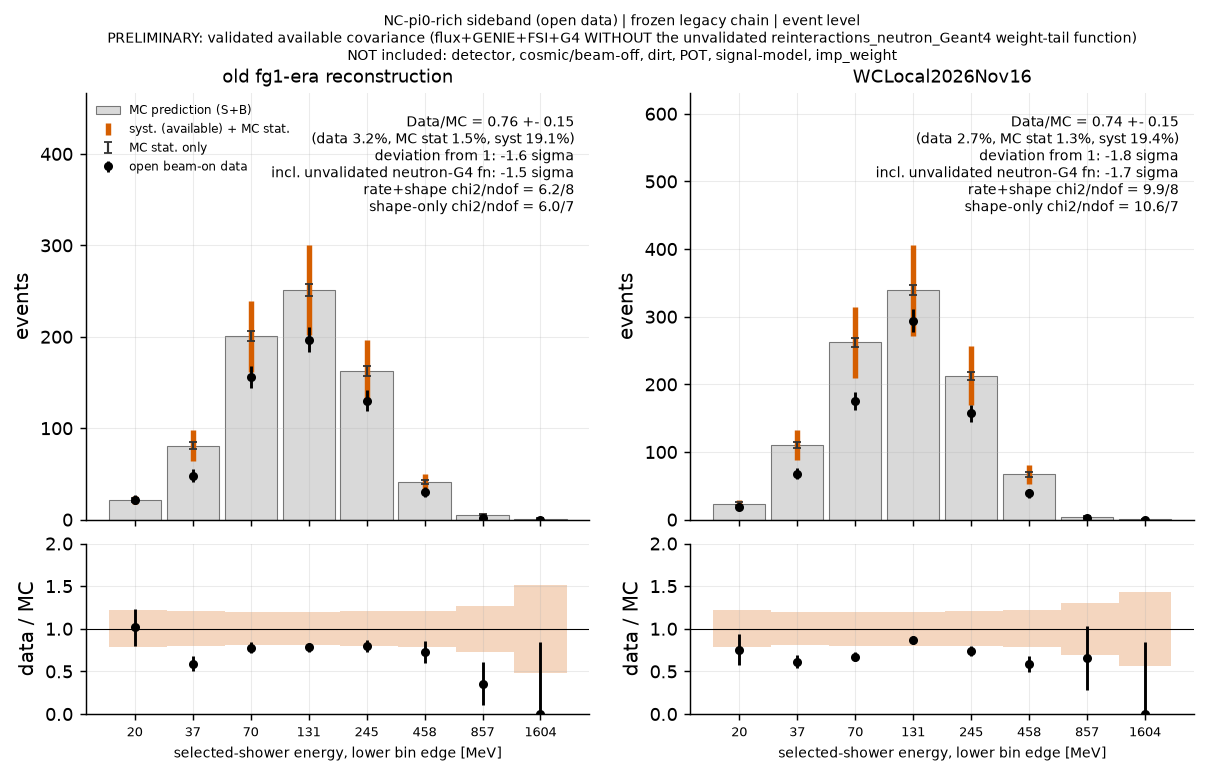
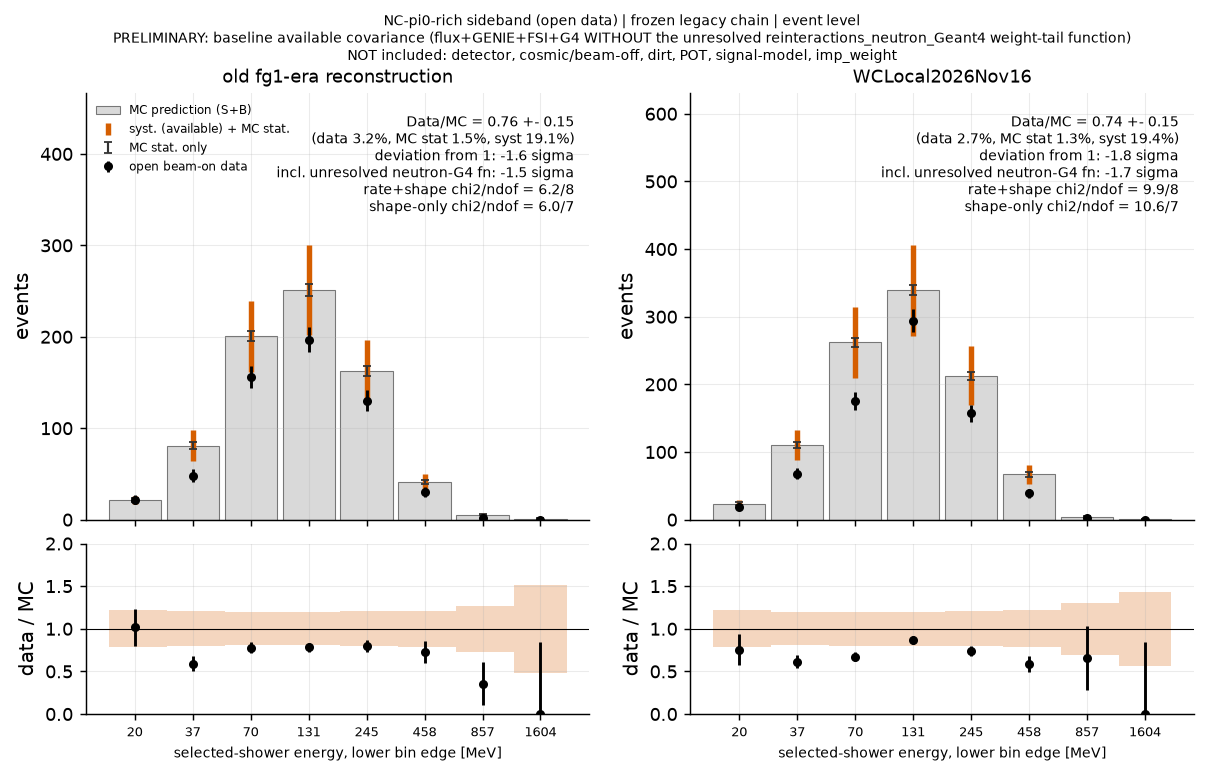
docs: wording-only cleanup - 'validated covariance' -> 'baseline available covariance (excluding unresolved reinteractions_neutron_Geant4 tail)'
Excluding the neutron-G4 function is an analysis diagnostic choice, not an approved SBN prescription. No numerical result changed (figures F/K regenerated for captions only).

Changed region(s): [[0.092, 0.031, 0.9511, 0.062], [0.7363, 0.2171, 0.8284, 0.2481], [0.2148, 0.2171, 0.3068, 0.2481]]

diff --git a/scripts/ncdelta_syst_regions.py b/scripts/ncdelta_syst_regions.py
@@ -175,7 +175,7 @@ def analyze(regions, tag_name, exclude=()):
 
 
 def figures(regions, mats, df, tag_name, sfx="", other=None):
-    """sfx '' = validated covariance (WITHOUT reinteractions_neutron_Geant4; main figures); '_incl_nG4' = all in-band functions (backup)."""
+    """sfx '' = baseline available covariance (WITHOUT reinteractions_neutron_Geant4; main figures); '_incl_nG4' = all in-band functions (backup)."""
     import matplotlib.pyplot as plt
     from sbnd_single_photon import plotstyle as PS; PS.apply_style(); PLT_ = REPO / "plots" / "ncdelta_purity_datamc"
     ttl = {"old_fg1": "old fg1-era reconstruction", "nov16": "WCLocal2026Nov16"}
@@ -188,13 +188,13 @@ def figures(regions, mats, df, tag_name, sfx="", other=None):
             a0.bar(x, P, 0.9, color="#D9D9D9", edgecolor="#777777", lw=0.6, label="MC prediction (S+B)"); a0.errorbar(x, P, yerr=tot, fmt="none", ecolor="#D55E00", lw=3, label="syst. (available) + MC stat."); a0.errorbar(x, P, yerr=mc, fmt="none", ecolor="#333333", lw=1.2, capsize=2, label="MC stat. only")
             a0.errorbar(x, Dv, yerr=np.sqrt(np.maximum(Dv, 1)), fmt="ko", ms=4, label="open beam-on data"); a0.set_ylim(0, 1.55 * float((P + tot).max())); a0.set_ylabel("events"); a0.set_xticks(x); a0.set_xticklabels([]); a0.set_title(ttl[prod], fontsize=10)
             ra = df[(df.production == prod) & (df.region == r) & (df.test.str.startswith("rate_only"))].iloc[0]; rs = df[(df.production == prod) & (df.region == r) & (df.test.str.startswith("rate+shape (energy"))].iloc[0]; sh = df[(df.production == prod) & (df.region == r) & (df.test.str.startswith("shape-only (energy"))].iloc[0]
-            oth = "" if other is None else f"\nincl. unvalidated neutron-G4 fn: {(other[(other.production == prod) & (other.region == r) & other.test.str.startswith('rate_only')].iloc[0].n_sigma_from_unity_total):+.1f} sigma"
+            oth = "" if other is None else f"\nincl. unresolved neutron-G4 fn: {(other[(other.production == prod) & (other.region == r) & other.test.str.startswith('rate_only')].iloc[0].n_sigma_from_unity_total):+.1f} sigma"
             a0.text(0.97, 0.95, f"Data/MC = {ra.ratio:.2f} +- {ra.rel_total * ra.ratio:.2f}\n(data {100 * ra.rel_data_stat:.1f}%, MC stat {100 * ra.rel_mc_stat:.1f}%, syst {100 * ra.rel_syst:.1f}%)\ndeviation from 1: {ra.n_sigma_from_unity_total:+.1f} sigma{oth}\nrate+shape chi2/ndof = {rs.chi2:.1f}/{rs.ndof:.0f}\nshape-only chi2/ndof = {sh.chi2:.1f}/{sh.ndof:.0f}", transform=a0.transAxes, ha="right", va="top", fontsize=7.5)
             if ci == 0:
                 a0.legend(fontsize=6.5, loc="upper left")
             rr = Dv / P; a1.fill_between(np.r_[x - 0.45, x[-1] + 0.45], 1 - np.r_[tot / P, (tot / P)[-1]], 1 + np.r_[tot / P, (tot / P)[-1]], color="#D55E00", alpha=0.25, step="post", lw=0)
             a1.errorbar(x, rr, yerr=np.sqrt(np.maximum(Dv, 1)) / P, fmt="ko", ms=4); a1.axhline(1, color="k", lw=0.6); a1.set_ylim(0, 2); a1.set_ylabel("data / MC"); a1.set_xticks(x); a1.set_xticklabels(lab, fontsize=7); a1.set_xlabel("selected-shower energy, lower bin edge [MeV]", fontsize=8)
-        fig.suptitle("NC-pi0-rich sideband (open data) | frozen legacy chain | event level\nPRELIMINARY: " + ("validated available covariance (flux+GENIE+FSI+G4 WITHOUT the unvalidated reinteractions_neutron_Geant4 weight-tail function)" if sfx == "" else "all in-band functions INCLUDING the unvalidated reinteractions_neutron_Geant4 weight-tail function") + "\nNOT included: detector, cosmic/beam-off, dirt, POT, signal-model, imp_weight", fontsize=8)
+        fig.suptitle("NC-pi0-rich sideband (open data) | frozen legacy chain | event level\nPRELIMINARY: " + ("baseline available covariance (flux+GENIE+FSI+G4 WITHOUT the unresolved reinteractions_neutron_Geant4 weight-tail function)" if sfx == "" else "all in-band functions INCLUDING the unresolved reinteractions_neutron_Geant4 weight-tail function") + "\nNOT included: detector, cosmic/beam-off, dirt, POT, signal-model, imp_weight", fontsize=8)
         fig.savefig(PLT_ / f"F_ncpi0_sideband_datamc_with_systematics{sfx}.png", dpi=130, bbox_inches="tight"); plt.close(fig); print("wrote F_ncpi0_sideband_datamc_with_systematics" + sfx + ".png")
     d = df[df.test.str.startswith("rate_only")]; fig, ax = plt.subplots(figsize=(8, 3.8)); xs = np.arange(len(regions))
     for k, prod in enumerate(PRODUCTIONS):

diff --git a/scripts/ncdelta_control_region_summary.py b/scripts/ncdelta_control_region_summary.py
@@ -3,7 +3,7 @@
 
     source env/setup_eaf.sh && python scripts/ncdelta_control_region_summary.py
 
-'validated' = flux + GENIE xsec + FSI + beamline-G4 functions WITHOUT reinteractions_neutron_Geant4 (unvalidated weight-tail function, see the event-level audit); 'incl_nG4' = with it. Neither is a final systematic uncertainty.
+baseline = flux + GENIE xsec + FSI + beamline-G4 functions WITHOUT reinteractions_neutron_Geant4 (unresolved neutron-G4 tail function, see the event-level audit); 'incl_nG4' = with it. Neither is a final systematic uncertainty.
 NOT included in either: detector / proton reconstruction, cosmic-only (beam-off) MC, dirt, POT, imp_weight, NC-Delta signal-model dials, unresolved-owner events.
 """
 import pickle
@@ -28,9 +28,9 @@ def main():
             weak = []; 
             if a.n_data < 100: weak.append("n_data<100")
             if min(n.data_0p, n.data_Np) < 50: weak.append("Np or 0p bin <50 events")
-            rows.append(dict(region=r, production=p, n_data=int(a.n_data), mc_prediction=a.prediction, data_over_mc=a.ratio, rel_data_stat=a.rel_data_stat, rel_mc_stat=a.rel_mc_stat, rel_syst_validated=x.rel_syst, rel_syst_incl_nG4=a.rel_syst,
-                             n_sigma_from_1_validated=x.n_sigma_from_unity_total, n_sigma_from_1_incl_nG4=a.n_sigma_from_unity_total, np_over_0p_double_ratio=n.double_ratio, double_ratio_rel_unc_stat_mc=n.rel_stat_mc, double_ratio_rel_unc_validated=n.rel_total_available,
-                             double_ratio_rel_unc_incl_nG4=float(np.hypot(n.rel_stat_mc, n.rel_syst_incl_neutron_g4)), double_ratio_n_sigma_validated=n.n_sigma_with_available_syst, double_ratio_n_sigma_incl_nG4=n.n_sigma_incl_neutron_g4,
+            rows.append(dict(region=r, production=p, n_data=int(a.n_data), mc_prediction=a.prediction, data_over_mc=a.ratio, rel_data_stat=a.rel_data_stat, rel_mc_stat=a.rel_mc_stat, rel_syst_baseline=x.rel_syst, rel_syst_incl_nG4=a.rel_syst,
+                             n_sigma_from_1_baseline=x.n_sigma_from_unity_total, n_sigma_from_1_incl_nG4=a.n_sigma_from_unity_total, np_over_0p_double_ratio=n.double_ratio, double_ratio_rel_unc_stat_mc=n.rel_stat_mc, double_ratio_rel_unc_baseline=n.rel_total_available,
+                             double_ratio_rel_unc_incl_nG4=float(np.hypot(n.rel_stat_mc, n.rel_syst_incl_neutron_g4)), double_ratio_n_sigma_baseline=n.n_sigma_with_available_syst, double_ratio_n_sigma_incl_nG4=n.n_sigma_incl_neutron_g4,
                              energy_rate_shape_chi2=cr[0], energy_rate_shape_ndof=cr[1], energy_rate_shape_p=cr[2], energy_rate_shape_chi2_incl_nG4=cn[0], energy_rate_shape_p_incl_nG4=cn[2],
                              energy_shape_only_chi2=sr[0], energy_shape_only_ndof=sr[1], energy_shape_only_p=sr[2], energy_shape_only_chi2_incl_nG4=sn[0], energy_shape_only_p_incl_nG4=sn[2],
                              dominant_mc_truth=f"{top[0][0]} {100 * top[0][1] / tot:.0f}%; {top[1][0]} {100 * top[1][1] / tot:.0f}%", stat_weak=";".join(weak)))

diff --git a/tests/test_ncdelta_syst_weights.py b/tests/test_ncdelta_syst_weights.py
@@ -171,7 +171,7 @@ def test_neutron_g4_event_audit_tables_and_policy_are_consistent():
     lead = top[(top.region == "preselection") & (top.quantity == "total_yield") & (top["rank"] == 1)]
     assert set(lead.production) == {"old_fg1", "nov16"} and (lead.run == 8011).all() and (lead.subrun == 91).all() and (lead.evt == 3).all()   # same physical MC event in both productions
     assert (lead.max_weight > 1e5).all() and (top.share_of_variance.between(-1.0, 1.1)).all()
-    # the validated total excludes ONLY the neutron function; no weight was clipped anywhere
+    # the baseline total excludes ONLY the neutron function; no weight was clipped anywhere
     band = pd.read_csv(TABD / "syst_band_by_component.csv"); a = band[(band.view == "all") & (band.component.isin(["TOTAL_available", "TOTAL_validated_excl_nG4", "unvalidated_nG4"]))]
     for prod in ("old_fg1", "nov16"):
         x = a[a.production == prod].set_index("component").sigma_purity_coherent_per_universe
@@ -192,7 +192,7 @@ def test_control_region_summary_matches_the_committed_region_tables_and_the_doub
     for r in d.itertuples():
         a = A[(A.production == r.production) & (A.region == r.region) & A.test.str.startswith("rate_only")].iloc[0]; x = X[(X.production == r.production) & (X.region == r.region) & X.test.str.startswith("rate_only")].iloc[0]
         n = N[(N.production == r.production) & (N.region == r.region)].iloc[0]
-        assert abs(r.data_over_mc - a.ratio) < 1e-9 and r.n_data == a.n_data and abs(r.rel_syst_validated - x.rel_syst) < 1e-9 and abs(r.rel_syst_incl_nG4 - a.rel_syst) < 1e-9
+        assert abs(r.data_over_mc - a.ratio) < 1e-9 and r.n_data == a.n_data and abs(r.rel_syst_baseline - x.rel_syst) < 1e-9 and abs(r.rel_syst_incl_nG4 - a.rel_syst) < 1e-9
         assert x.rel_syst <= a.rel_syst + 1e-12                                                                      # excluding a function can only reduce the covariance
         assert abs(n.double_ratio - (n.data_Np / n.data_0p) / (n.mc_Np / n.mc_0p)) < 1e-9 and abs(r.np_over_0p_double_ratio - n.double_ratio) < 1e-12
         assert n.rel_syst_incl_neutron_g4 >= n.rel_syst_available - 1e-12

diff --git a/scripts/ncdelta_np_over_0p_summary.py b/scripts/ncdelta_np_over_0p_summary.py
@@ -51,8 +51,8 @@ def main():
     ax.axhline(1, color="k", lw=0.7); ax.set_xticks(xs); ax.set_xticklabels(["preselection", "SB nu-mu-rich", "SB NC-pi0-rich", "SB other-rich", "SB nu-e-rich"], fontsize=8)
     ax.set_ylabel("(Np / 0p)$_{data}$ / (Np / 0p)$_{MC}$"); ax.set_ylim(0, 1.9); ax.legend(loc="upper right", fontsize=8)
     ax.set_title("Reconstructed proton multiplicity: data/MC Np/0p ratio by control region (open data, event level)", fontsize=9)
-    for yy, tx in ((0.085, "PRELIMINARY. Thick bar: data + MC statistics. Thin solid bar: + available flux/GENIE/FSI/G4 covariance excluding the unvalidated function reinteractions_neutron_Geant4."),
-                   (0.055, "Dashed bar: including that function (unvalidated weight-tail function, driven by a handful of events; no approved SBN treatment found)."),
+    for yy, tx in ((0.085, "PRELIMINARY. Thick bar: data + MC statistics. Thin solid bar: + available flux/GENIE/FSI/G4 covariance excluding the unresolved function reinteractions_neutron_Geant4."),
+                   (0.055, "Dashed bar: including that function (unresolved neutron-G4 tail function, driven by a handful of events; no approved SBN treatment found)."),
                    (0.025, "NOT included: detector and proton-reconstruction systematics, cosmic-only (beam-off) MC, dirt, POT, imp_weight.")):
         fig.text(0.01, yy, tx, fontsize=5.8, color="#555")
     fig.tight_layout(rect=(0, 0.11, 1, 1)); fig.savefig(PLT / "K_np_over_0p_double_ratio_by_region.png", dpi=150); plt.close(fig)

diff --git a/scripts/ncdelta_syst_covariance.py b/scripts/ncdelta_syst_covariance.py
@@ -61,7 +61,7 @@ def products(prod, X, view, tail):
         for c, gs in {**(COMP if fn["in_band"] else {}), **{k: [v] for k, v in OUTSIDE.items()}}.items():
             if (fn["group"] in gs) if c in COMP else fn["name"].endswith(gs[0]):
                 out["comp"][c]["Q"] += sc * D @ D.T; out["comp"][c]["pur"] += sc * Dp @ Dp.T; out["comp"][c]["pred"] += sc * Dpred @ Dpred.T
-                if fn["in_band"] and fn["name"] == "reinteractions_neutron_Geant4":      # unvalidated weight-tail function (event-level audit): tracked separately; the 'validated' total excludes only this function
+                if fn["in_band"] and fn["name"] == "reinteractions_neutron_Geant4":      # unresolved neutron-G4 tail function (event-level audit): tracked separately; the baseline total excludes only this function
                     out["comp"]["unvalidated_nG4"]["Q"] += sc * D @ D.T; out["comp"]["unvalidated_nG4"]["pur"] += sc * Dp @ Dp.T; out["comp"]["unvalidated_nG4"]["pred"] += sc * Dpred @ Dpred.T
                 if fn["in_band"] and tail.get(fn["name"], False):
                     out["comp"]["single_event_dominated"]["Q"] += sc * D @ D.T; out["comp"]["single_event_dominated"]["pur"] += sc * Dp @ Dp.T; out["comp"]["single_event_dominated"]["pred"] += sc * Dpred @ Dpred.T

diff --git a/docs/analysis/NCDELTA_CONTROL_REGION_COLLABORATION_HANDOFF.md b/docs/analysis/NCDELTA_CONTROL_REGION_COLLABORATION_HANDOFF.md
@@ -1,5 +1,7 @@
 # NC-Delta control regions: collaboration handoff (development note, PRELIMINARY)
 
+> **Wording and status of the "baseline available covariance".** It means the flux + GENIE cross-section + cross-section-extras + GENIE FSI + beamline-G4 functions *excluding* the unresolved `reinteractions_neutron_Geant4` tail function; the alternative is called the *including unresolved neutron-G4 tail diagnostic*. Excluding that function is **an analysis diagnostic choice, not an established or collaboration-approved SBN prescription** (none was found; see section 11 of `NCDELTA_SYSTEMATIC_WEIGHTS_FIRST_PASS.md`). "Baseline" does not mean validated or approved. Internal identifiers (`TOTAL_validated_excl_nG4`, `unvalidated_nG4` in `syst_band_by_component.csv` and the covariance files) keep their historical names; they mean the same thing. The purity band is a *preliminary available-neutrino-model relative uncertainty*, not "the systematic uncertainty on purity".
+
 Status: EAF development package closed for review. Local commits only, **not pushed** (waiting for Avinay's review). Everything is MC-only and open-data-only; detector, beam-off, POT, `imp_weight` and the NC-Delta signal model are not in any uncertainty. Details: `NCDELTA_SYSTEMATIC_WEIGHTS_FIRST_PASS.md` (sections 7-11), `NCDELTA_FROZEN_SELECTION_PURITY_RESULTS.md`.
 
 ## A. Selection / reconstruction context
@@ -10,14 +12,14 @@ Frozen legacy MicroBooNE chain (numu > 0.4, other > 0.2, ncpi0 > -0.05, nue > -1
 | old fg1-era reconstruction | 6.70 % (833 / 12,427) | 2.74 +- 0.18 % | 2.52 % / 2.99 % |
 | WCLocal2026Nov16 (WCL1116) | 15.60 % (1,938 / 12,427) | 2.63 +- 0.11 % | 2.31 % / 3.25 % |
 
-These purities are **MC-only expected purities, upper bounds**: the pure-cosmic (beam-off) component is missing because its normalization is unresolved. The preliminary neutrino-model study gives a relative band of 16.5 % (old) / 17.8 % (Nov16) on the purity from the *validated* available covariance (17.5 % / 20.3 % if the unvalidated neutron-G4 function is included); this is **not** attached to the central values as a "+-" and is not a final uncertainty. Detector, cosmic/beam-off normalization, POT, NC-Delta radiative-decay model, `imp_weight` and unresolved-owner events are not included.
+These purities are **MC-only expected purities, upper bounds**: the pure-cosmic (beam-off) component is missing because its normalization is unresolved. The preliminary neutrino-model study gives a relative band of 16.5 % (old) / 17.8 % (Nov16) on the purity from the baseline available covariance (excluding the unresolved reinteractions_neutron_Geant4 tail) (17.5 % / 20.3 % if the unresolved neutron-G4 function is included); this is **not** attached to the central values as a "+-" and is not a final uncertainty. Detector, cosmic/beam-off normalization, POT, NC-Delta radiative-decay model, `imp_weight` and unresolved-owner events are not included.
 
 ## B. Data/MC normalization (open control regions, beam-on open data 4.62e18 POT)
-Integrated rates are broadly consistent with 1 in preselection (0.98 / 0.97), nu-mu-rich (1.00 / 1.01), other-rich (1.05 / 1.03) and nu-e-rich (0.99 / 0.92, statistically weak). The NC-pi0-rich sideband has Data/MC 0.76 (old) / 0.74 (Nov16), a ~25 % deficit that is only **-1.6 / -1.8 sigma** (-1.5 / -1.7 including the unvalidated function) once the available flux + GENIE + FSI + G4 covariance (~19-20 %, almost a pure normalization mode) is included; the shower-energy shape is consistent (rate+shape chi2/ndof 6.2/8 and 9.9/8).
-Shape caveats (energy, validated covariance): Nov16 preselection 22.4/8 (p = 0.004) and `SB_numu` 16.4/8 (p = 0.04), old preselection 17.9/8 (p = 0.02) are in tension (they are 10.3/8, 9.2/8, 15.8/8 if the unvalidated function is kept); Nov16 `SB_other` 25.1/8 (p = 0.0015) is driven by sparse high-energy bins in a cosmic-rich sample where the MC has no cosmic-only component (hypothesis, not demonstrated).
+Integrated rates are broadly consistent with 1 in preselection (0.98 / 0.97), nu-mu-rich (1.00 / 1.01), other-rich (1.05 / 1.03) and nu-e-rich (0.99 / 0.92, statistically weak). The NC-pi0-rich sideband has Data/MC 0.76 (old) / 0.74 (Nov16), a ~25 % deficit that is only **-1.6 / -1.8 sigma** (-1.5 / -1.7 including the unresolved function) once the available flux + GENIE + FSI + G4 covariance (~19-20 %, almost a pure normalization mode) is included; the shower-energy shape is consistent (rate+shape chi2/ndof 6.2/8 and 9.9/8).
+Shape caveats (energy, baseline available covariance): Nov16 preselection 22.4/8 (p = 0.004) and `SB_numu` 16.4/8 (p = 0.04), old preselection 17.9/8 (p = 0.02) are in tension (they are 10.3/8, 9.2/8, 15.8/8 if the unresolved function is kept); Nov16 `SB_other` 25.1/8 (p = 0.0015) is driven by sparse high-energy bins in a cosmic-rich sample where the MC has no cosmic-only component (hypothesis, not demonstrated).
 
-### Authoritative control-region table (validated available covariance; "incl." = also with `reinteractions_neutron_Geant4`)
-| region | reco | data | MC (S+B) | Data/MC | data stat | MC stat | avail. syst, validated (incl. nG4) | Np/0p data/MC +- (stat+MC+syst validated; incl. nG4) | energy rate+shape chi2/ndof, validated (incl.) | energy shape-only chi2/ndof, validated (incl.) | dominant MC truth | flag |
+### Authoritative control-region table (baseline available covariance; "incl." = also with `reinteractions_neutron_Geant4`)
+| region | reco | data | MC (S+B) | Data/MC | data stat | MC stat | avail. syst, baseline (incl. nG4) | Np/0p data/MC +- (stat+MC+syst baseline; incl. nG4) | energy rate+shape chi2/ndof, baseline (incl.) | energy shape-only chi2/ndof, baseline (incl.) | dominant MC truth | flag |
 |---|---|---|---|---|---|---|---|---|---|---|---|---|
 | preselection | old | 8480 | 8622 | 0.98 | 1.1% | 0.4% | 15.1% (23.8%) | 0.82 +- 0.05 (0.28) | 17.9/8 (15.8) | 16.1/7 (14.3) | NUMU_CC 33%; CC_PI0 26% |  |
 | SB_numu | old | 6301 | 6294 | 1.00 | 1.3% | 0.5% | 16.2% (29.6%) | 0.81 +- 0.06 (0.35) | 12.1/8 (10.5) | 9.8/7 (8.7) | NUMU_CC 42%; CC_PI0 31% |  |
@@ -34,7 +36,7 @@ Shape caveats (energy, validated covariance): Nov16 preselection 22.4/8 (p = 0.0
 
 ## C. Proton multiplicity
 The MC predicts a larger reconstructed Np/0p ratio than data across several regions: data/MC double ratio 0.82 / 0.80 (preselection, old / Nov16), 0.81 / 0.80 (`SB_numu`), 0.67 / 0.75 (NC-pi0), 0.91 / 0.79 (`SB_other`), nu-e-rich low statistics. It is a general ~20 % effect, somewhat larger in the NC-pi0 sideband (not an NC-pi0-only discrepancy). It is not localized in the available observables: not in pi0 kinematics or pair finding (mass, opening angle, energies, asymmetry, conversion gaps), not in proton KE or length shapes, not at the TPC edge, not in low-KE threshold behaviour. WCL1116 does **not** remove it. Truth->reco migration (MC): reco 0p is truth-impure, P(truth >= 1 proton > 35 MeV | reco 0p) = 0.525 (old) / 0.446 (Nov16), and WCL1116 improves proton finding in MC (same events: true 1p -> reco 0p 31 % -> 26 %, true >= 2p -> reco >= 2p 41 % -> 48 %), yet the data/MC mismatch persists.
-With statistics only the double ratio is 8-11 sigma below 1 in preselection and `SB_numu`; with the validated available covariance 3.3-4.2 sigma; including the unvalidated neutron-G4 function only 0.5-0.7 sigma. The significance depends on that function; **quote the ratios, not the sigmas**.
+With statistics only the double ratio is 8-11 sigma below 1 in preselection and `SB_numu`; with the baseline available covariance 3.3-4.2 sigma; including the unresolved neutron-G4 function only 0.5-0.7 sigma. The significance depends on that function; **quote the ratios, not the sigmas**.
 
 ## D. Interpretation (conservative)
 Open control data indicate that MC tends to predict a larger reconstructed Np/0p ratio than data across several regions. Improved WCL1116 reconstruction does not remove the discrepancy. Current information cannot distinguish a generic hadronic / proton-multiplicity modeling effect from proton reconstruction / detector modeling; detector-variation samples or alternative generator / model comparisons are needed. Proton-reconstruction inefficiency has not been demonstrated.
@@ -49,8 +51,8 @@ Open control data indicate that MC tends to predict a larger reconstructed Np/0p
 - Signal-region approval (the final selection on beam-on data remains blocked).
 
 ### Systematic categories (kept distinct)
-- **Generic neutrino-model covariance (validated, preliminary):** flux, beamline G4 (without the neutron function), GENIE cross section, GENIE FSI, cross-section extras.
-- **Unvalidated weight-tail diagnostic, shown separately:** `reinteractions_neutron_Geant4`. Event-level audit: in Np-rich selections and the Nov16 final selection a handful of events carry 87-100 % of its variance (top event: run 8011 / subrun 91 / evt 3, a nu-mu NC RES, NC_PI0, max weight 223,065, the same MC event in both productions); the 0p yield and the old final selection are broad. Not an association error (same tail in an unselected random sample); it is a heavy-tailed property of the weights. The sbncode fcl declares `max_weight: 100`, the flux calculators clamp at 30, `cafpyana` omits the neutron function, but **no approved treatment was found** and none was invented; excluding it is our diagnostic choice. Every figure and table states whether the error bar includes it, excludes it, or shows both; neither is a "final systematic uncertainty".
+- **Generic neutrino-model covariance (baseline available, preliminary):** flux, beamline G4 (without the neutron function), GENIE cross section, GENIE FSI, cross-section extras.
+- **Unresolved neutron-G4 tail diagnostic, shown separately:** `reinteractions_neutron_Geant4`. Event-level audit: in Np-rich selections and the Nov16 final selection a handful of events carry 87-100 % of its variance (top event: run 8011 / subrun 91 / evt 3, a nu-mu NC RES, NC_PI0, max weight 223,065, the same MC event in both productions); the 0p yield and the old final selection are broad. Not an association error (same tail in an unselected random sample); it is a heavy-tailed property of the weights. The sbncode fcl declares `max_weight: 100`, the flux calculators clamp at 30, `cafpyana` omits the neutron function, but **no approved treatment was found** and none was invented; excluding it is our diagnostic choice. Every figure and table states whether the error bar includes it, excludes it, or shows both; neither is a "final systematic uncertainty".
 - **NC-Delta signal-model (separate, not in the generic band):** `RDecBR1gamma`, `ThetaDelta2NRad`.
 - **Not yet included:** detector / proton reconstruction, cosmic/beam-off normalization, POT, unresolved `imp_weight`, unresolved-owner events (~4-5 % of the final-selection prediction, 3-18 % in the control regions), dirt-specific uncertainty, other detector/model categories not in these CAF weights.
 
@@ -58,8 +60,8 @@ Open control data indicate that MC tends to predict a larger reconstructed Np/0p
 No Aurora DEV model was evaluated on FermiGrid or on any official evaluation sample. No signal-region (final-selection) beam-on data were opened: only the preselection / sideband open data allowed by `configs/data_policy.yaml` were read; `run3bnb` is not used. Nothing is pushed.
 
 ## Figures (main tier: three; everything else is backup)
-1. `plots/ncdelta_purity_datamc/F_ncpi0_sideband_datamc_with_systematics.png`: "The ~25 % NC-pi0 rate deficit is not significant with the available neutrino-model covariance" (validated covariance; the including-nG4 version is `F_..._incl_nG4.png`). Caveat on the figure: detector / cosmic / POT / `imp_weight` not included.
-2. `plots/ncdelta_purity_datamc/K_np_over_0p_double_ratio_by_region.png`: "MC predicts a higher reconstructed Np/0p ratio than data across several control samples" (thick = data + MC statistics, thin = + validated available covariance, dashed = including the unvalidated tail function).
+1. `plots/ncdelta_purity_datamc/F_ncpi0_sideband_datamc_with_systematics.png`: "The ~25 % NC-pi0 rate deficit is not significant with the available neutrino-model covariance" (baseline available covariance; the including-nG4 version is `F_..._incl_nG4.png`). Caveat on the figure: detector / cosmic / POT / `imp_weight` not included.
+2. `plots/ncdelta_purity_datamc/K_np_over_0p_double_ratio_by_region.png`: "MC predicts a higher reconstructed Np/0p ratio than data across several control samples" (thick = data + MC statistics, thin = + baseline available covariance, dashed = including the unresolved tail function).
 3. `plots/ncdelta_purity_datamc/J_ncpi0_truth_reco_topology_migration.png`: "Reconstructed 0p/Np is migration-heavy; WCL1116 improves proton finding in MC" (backup tier if the room is crowded).
 Backup only: `H_ncpi0_topology_variables.png`, `I_ncpi0_topology_reco_observables.png` (92 panels), `E_syst_first_pass_*.png`, `G_sideband_integrated_ratio_*.png`.
 

diff --git a/docs/analysis/NCDELTA_SYSTEMATIC_WEIGHTS_FIRST_PASS.md b/docs/analysis/NCDELTA_SYSTEMATIC_WEIGHTS_FIRST_PASS.md
@@ -225,12 +225,12 @@ Section 10 only had per-universe sums for the control regions, so the leave-one-
 
 **Band policy for this development note.**
 1. Nominal central prediction: unchanged (unit weights; no clipping).
-2. **"Validated available neutrino covariance"** = flux + GENIE cross section + cross-section extras + GENIE FSI + beamline-G4 functions **except `reinteractions_neutron_Geant4`** (applied identically in all regions and both productions). Single-event / thin-response flags of other functions are unchanged and listed in `syst_single_event_dominance.csv` (their effect is small; no function other than the neutron one has a weight tail in the control regions, `NCRES` in `SB_nue` is mild).
-3. **Unvalidated weight-tail diagnostic**: `reinteractions_neutron_Geant4` shown separately (dashed in the figures, "incl. nG4" columns, `unvalidated_nG4` component). Every figure and table states whether the error bar includes it, excludes it, or shows both. Neither choice is a final systematic uncertainty. Detector / proton-reconstruction uncertainties are missing in all of them.
+2. **"Baseline available neutrino covariance (excluding the unresolved reinteractions_neutron_Geant4 tail)"** = flux + GENIE cross section + cross-section extras + GENIE FSI + beamline-G4 functions **except `reinteractions_neutron_Geant4`** (applied identically in all regions and both productions). Single-event / thin-response flags of other functions are unchanged and listed in `syst_single_event_dominance.csv` (their effect is small; no function other than the neutron one has a weight tail in the control regions, `NCRES` in `SB_nue` is mild).
+3. **Including unresolved neutron-G4 tail diagnostic**: `reinteractions_neutron_Geant4` shown separately (dashed in the figures, "incl. nG4" columns, `unvalidated_nG4` component). Every figure and table states whether the error bar includes it, excludes it, or shows both. Neither choice is a final systematic uncertainty. Detector / proton-reconstruction uncertainties are missing in all of them.
 
-**Consequences for earlier numbers (validated / including nG4):**
+**Consequences for earlier numbers (baseline / including nG4):**
 - NC-pi0 sideband Data/MC deviation from 1: -1.6 / -1.5 sigma (old), -1.8 / -1.7 sigma (Nov16); the headline "not significant with the available covariance" holds under either choice.
 - Final frozen selection purity relative band (coherent S/B universes): old 16.5 % / 17.5 %, Nov16 17.8 % / 20.3 % (the function alone: 5.9 % / 9.8 % relative, driven by two events in Nov16). Central purity values are unchanged (2.74 % and 2.63 %, MC-only upper bound); no "+-" is attached to them.
-- Control-region integrated rate uncertainty of preselection / `SB_numu`: 15-17 % validated vs 24-33 % including the function.
-- **The energy-shape tests get worse, not better, with the validated covariance in the muon-rich samples:** Nov16 preselection rate+shape chi2/ndof 22.4/8 (p = 0.004; 10.3/8 including the function), `SB_numu` 16.4/8 (p = 0.04; 9.2/8), old preselection 17.9/8 (p = 0.02). The function's single-event tail had been absorbing a shape disagreement; nothing about it is validated, so these two numbers bracket the result.
-- Np/0p double ratio deviation from 1: preselection -3.4 / -0.6 sigma (old), -4.2 / -0.7 (Nov16); `SB_numu` -3.3 / -0.5, -4.0 / -0.5 (validated / including); NC-pi0 -4.4 / -4.3 (old), -3.2 / -3.1 (Nov16). The Np/0p excess of the MC is a significant effect in the validated covariance in preselection and `SB_numu` and not significant if the tail function is kept at face value; do not quote the sigmas prominently.
+- Control-region integrated rate uncertainty of preselection / `SB_numu`: 15-17 % baseline vs 24-33 % including the function.
+- **The energy-shape tests get worse, not better, with the baseline available covariance in the muon-rich samples:** Nov16 preselection rate+shape chi2/ndof 22.4/8 (p = 0.004; 10.3/8 including the function), `SB_numu` 16.4/8 (p = 0.04; 9.2/8), old preselection 17.9/8 (p = 0.02). The function's single-event tail had been absorbing a shape disagreement; nothing about it is validated, so these two numbers bracket the result.
+- Np/0p double ratio deviation from 1: preselection -3.4 / -0.6 sigma (old), -4.2 / -0.7 (Nov16); `SB_numu` -3.3 / -0.5, -4.0 / -0.5 (baseline / including); NC-pi0 -4.4 / -4.3 (old), -3.2 / -3.1 (Nov16). The Np/0p excess of the MC is a significant effect in the baseline available covariance (excluding the unresolved neutron-G4 tail) in preselection and `SB_numu` and not significant if the tail function is kept at face value; do not quote the sigmas prominently.

diff --git a/docs/analysis/QUESTIONS_FOR_HAIWANG_HANYU.md b/docs/analysis/QUESTIONS_FOR_HAIWANG_HANYU.md
@@ -8,7 +8,7 @@ Evidence for each item is in the linked audit. Nothing below has been assumed in
 2. **`rec.mc.nu.imp_weight` convention.** Is `imp_weight` an importance weight that must multiply the event weight in the generic BNB CV (we do NOT apply it; it is not 1 in the CAFs)? The effect on the selected sample is only quantified hypothetically (`syst_imp_weight_hypothetical.csv`, HYPOTHETICAL ONLY), and it is not in any uncertainty (`NCDELTA_FROZEN_SELECTION_PURITY_RESULTS.md` section 6).
 3. **Effective-boundary / final reconstruction production.** Which WCL production (with the 2 cm / effective-boundary definition and the final vertex/proton handling) will be the analysis production, and when? All results here are on the frozen legacy chain replayed on WCLocal2026Nov16 (and the older fg1-era reconstruction).
 4. **Detector-variation samples for proton-multiplicity validation.** Do detector-variation (or alternative-generator) samples exist or are they planned that would let us test whether the ~20 % MC excess of the reconstructed Np/0p ratio seen in all open control regions (not only NC-pi0) is proton reconstruction / detector modelling or hadronic / proton-multiplicity modelling? Truth->reco migration shows P(truth >=1 proton > 35 MeV | reco 0p) = 0.53 (old) / 0.45 (Nov16), so data alone cannot separate them.
-5. **Approved SBN treatment of extreme `reinteractions_neutron_Geant4` weights.** In the CAF weights this function has event weights up to ~2x10^5 (a heavy tail: 1-1.5 % of events above 10 and ~0.1 % above 100, in unselected generic BNB interactions as well as in the selected events). `sbn_eventweight_geant4` declares `min_weight: 0.0, max_weight: 100`, the BNB flux calculators clamp at 30, and cafpyana's `g4syst` lists only the pi-, pi+ and proton Geant4 functions, but we found no documented or approved prescription (no cap is evident in the stored weights). Is there one (cap, universe rejection, exclusion) and which sbncode/production version applied it? Until then it is shown only as a separate unvalidated diagnostic and excluded from the "validated available covariance" (`audit_neutron_g4_*.csv`, `NCDELTA_SYSTEMATIC_WEIGHTS_FIRST_PASS.md` section 11).
+5. **Approved SBN treatment of extreme `reinteractions_neutron_Geant4` weights.** In the CAF weights this function has event weights up to ~2x10^5 (a heavy tail: 1-1.5 % of events above 10 and ~0.1 % above 100, in unselected generic BNB interactions as well as in the selected events). `sbn_eventweight_geant4` declares `min_weight: 0.0, max_weight: 100`, the BNB flux calculators clamp at 30, and cafpyana's `g4syst` lists only the pi-, pi+ and proton Geant4 functions, but we found no documented or approved prescription (no cap is evident in the stored weights). Is there one (cap, universe rejection, exclusion) and which sbncode/production version applied it? Until then it is shown only as a separate unresolved diagnostic and excluded from the "baseline available covariance" (`audit_neutron_g4_*.csv`, `NCDELTA_SYSTEMATIC_WEIGHTS_FIRST_PASS.md` section 11).
 
 ## A. Block physical normalisation
 

diff --git a/docs/analysis/NCDELTA_FROZEN_SELECTION_PURITY_RESULTS.md b/docs/analysis/NCDELTA_FROZEN_SELECTION_PURITY_RESULTS.md
@@ -60,7 +60,7 @@ One score varied over [-3, 3] with the other three scores, n20 and n20br1 at the
 
 **`imp_weight` stays unresolved (corrected statement).** `rec.mc.nu.imp_weight` is not 1 (sample-wide mean 0.185 for the generic CV, 0.169 for the dedicated sample, `imp_weight_survey.json`). No event weight is applied anywhere (the exposure normalisation uses `TotalPOT` only) and nothing in the repository documents whether `TotalPOT` already accounts for it; the question is in `QUESTIONS_FOR_HAIWANG_HANYU.md` (item 6). **An earlier version of this note said that applying it would move S/B by only ~9 %. That conclusion was not supported:** sample-wide means cannot be used, because the selected-event distributions differ. On the selected events (`syst_imp_weight_distribution.csv`) the mean `imp_weight` of the owner interaction is 0.159 (old) / 0.154 (Nov16) for signal but 0.118 / 0.107 for the resolved background. The purely hypothetical effect (`syst_imp_weight_hypothetical.csv`, labelled `HYPOTHETICAL_ONLY`, **not an alternative result**) on S/B is between -6 % and +34 % (old) and between +6 % and +45 % (Nov16), depending only on how the 5.5 % / 4.3 % of the background events without a unique owner are treated (weight 1 vs the mean resolved weight), and S and B would each fall by a factor ~6-10 in absolute terms. Until the convention is answered, the unit-central-weight POT result is the baseline.
 
-**Update (section 11 of `NCDELTA_SYSTEMATIC_WEIGHTS_FIRST_PASS.md`, event-level audit).** The relative neutrino-model band on the purity is 16.5 % (old) / 17.8 % (Nov16) with the validated available covariance and 17.5 % / 20.3 % if the unvalidated `reinteractions_neutron_Geant4` weight-tail function is included (two events dominate it in Nov16). The central values above are unchanged and carry no systematic "+-"; they remain MC-only expected purities (upper bounds, beam-off missing).
+**Update (section 11 of `NCDELTA_SYSTEMATIC_WEIGHTS_FIRST_PASS.md`, event-level audit).** The relative neutrino-model band on the purity is 16.5 % (old) / 17.8 % (Nov16) with the baseline available covariance and 17.5 % / 20.3 % if the unresolved `reinteractions_neutron_Geant4` weight-tail function is included (two events dominate it in Nov16). The central values above are unchanged and carry no systematic "+-"; they remain MC-only expected purities (upper bounds, beam-off missing).
 
 ## 7. What this does and does not support
 

diff --git a/tables/ncdelta_purity_datamc/control_region_summary_final.md b/tables/ncdelta_purity_datamc/control_region_summary_final.md
@@ -1,4 +1,4 @@
-| region | reco | data | MC (S+B) | Data/MC | data stat | MC stat | avail. syst, validated (incl. nG4) | Np/0p data/MC +- (stat+MC+syst validated; incl. nG4) | energy rate+shape chi2/ndof, validated (incl.) | energy shape-only chi2/ndof, validated (incl.) | dominant MC truth | flag |
+| region | reco | data | MC (S+B) | Data/MC | data stat | MC stat | avail. syst, baseline (incl. unresolved nG4 tail) | Np/0p data/MC +- (stat+MC+syst baseline; incl. unresolved nG4 tail) | energy rate+shape chi2/ndof, baseline (incl. nG4 tail) | energy shape-only chi2/ndof, baseline (incl. nG4 tail) | dominant MC truth | flag |
 |---|---|---|---|---|---|---|---|---|---|---|---|---|
 | preselection | old | 8480 | 8622 | 0.98 | 1.1% | 0.4% | 15.1% (23.8%) | 0.82 +- 0.05 (0.28) | 17.9/8 (15.8) | 16.1/7 (14.3) | NUMU_CC 33%; CC_PI0 26% |  |
 | SB_numu | old | 6301 | 6294 | 1.00 | 1.3% | 0.5% | 16.2% (29.6%) | 0.81 +- 0.06 (0.35) | 12.1/8 (10.5) | 9.8/7 (8.7) | NUMU_CC 42%; CC_PI0 31% |  |
